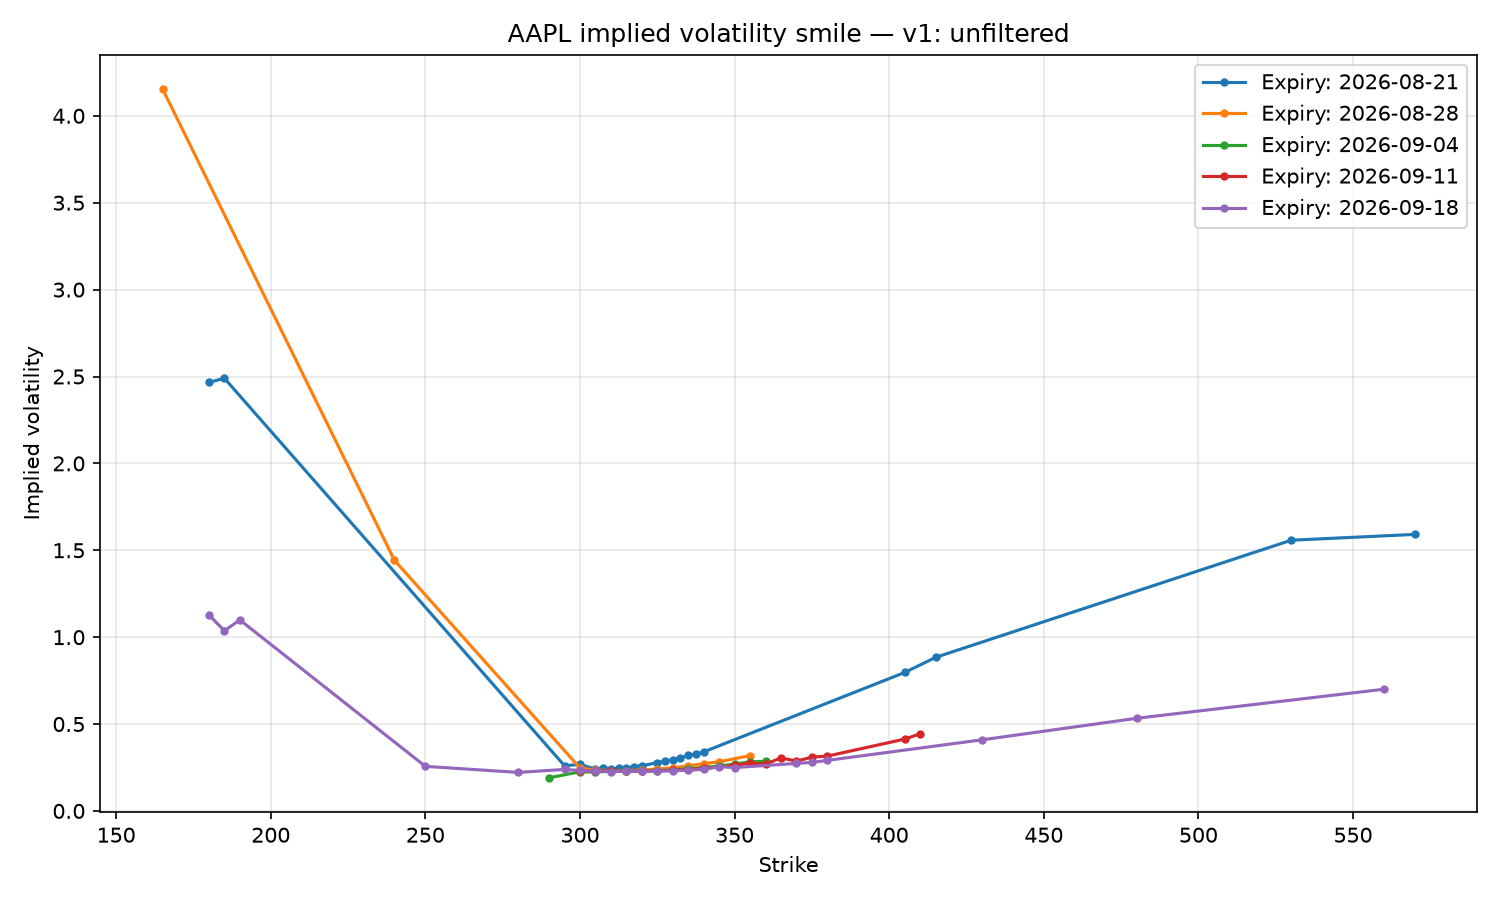
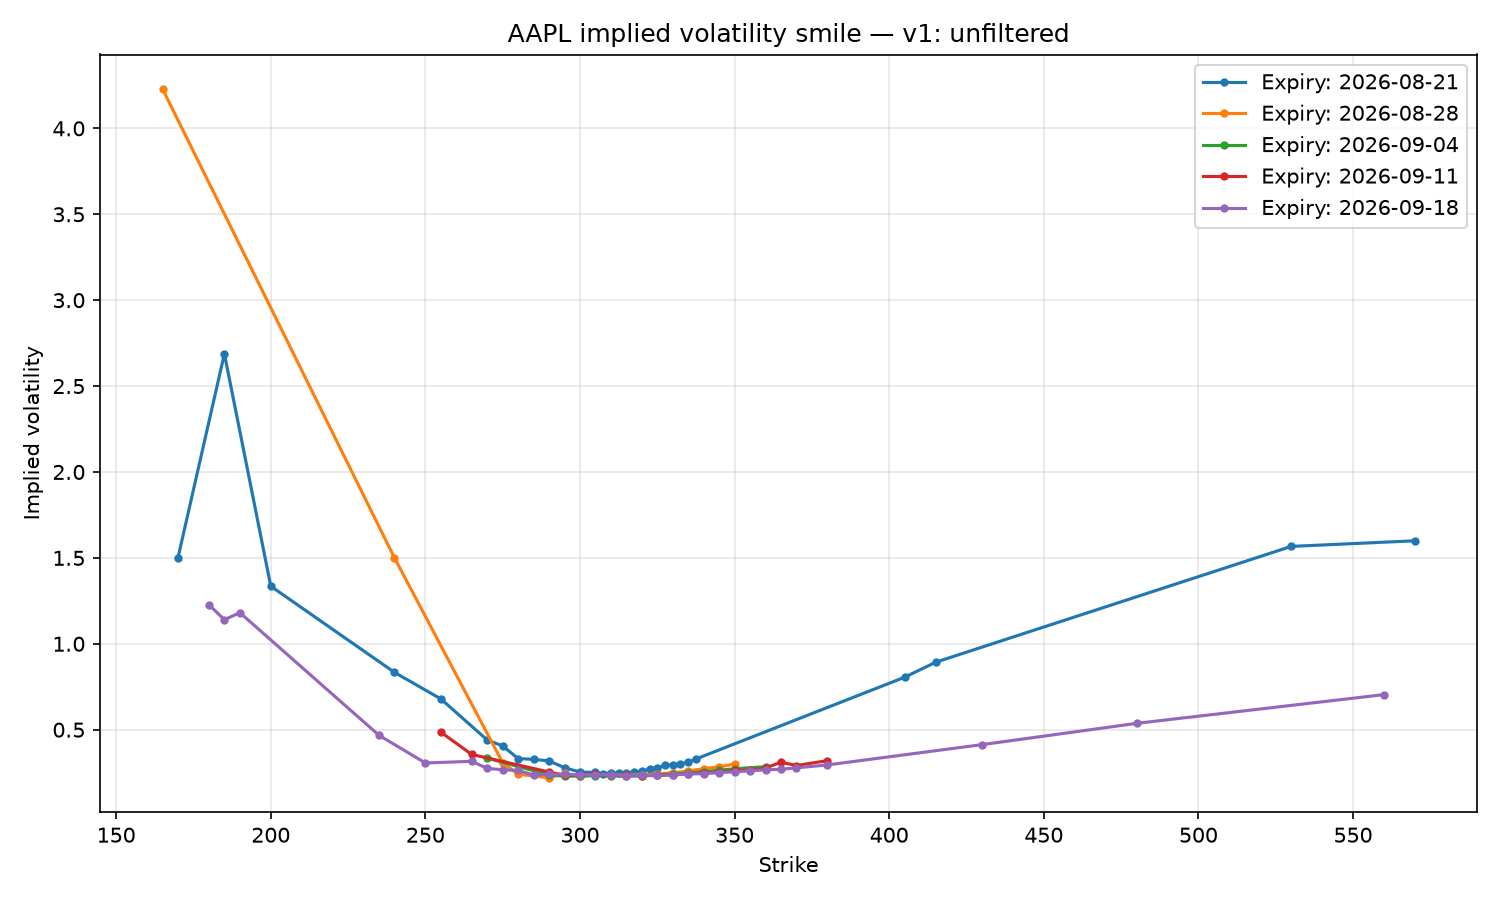
Add SVI calibration per maturity slice with market-vs-model visualization

diff --git a/src/qpt/calibration/svi.py b/src/qpt/calibration/svi.py
@@ -1,0 +1,59 @@
+import numpy as np
+import pandas as pd
+from scipy.optimize import minimize
+from qpt.data.market_data_fetcher import fetch_option_chain
+from qpt.data.cleaning import clean_option_chain
+from qpt.calibration.smile import compute_smile
+
+
+def svi_total_variance(k: np.ndarray, a: float, b: float, rho: float, m: float, sigma: float) -> np.ndarray:
+    return a + b * (rho * (k - m) + np.sqrt((k - m) ** 2 + sigma ** 2))
+
+def calibrate_svi_slice(log_moneyness: np.ndarray, total_variance: np.ndarray) -> dict:
+    def loss(params):
+        a, b, rho, m, sigma = params
+        var_predicted = svi_total_variance(log_moneyness, a, b, rho, m, sigma)
+        sum_squared_error = np.sum((var_predicted - total_variance) ** 2)
+        return sum_squared_error
+    initial_guess = [0.05, 0.1, -0.3, 0.0, 0.1]  # a, b, rho, m, sigma -- reasonable departure point
+    bounds = [(None, None), # a: no strict bound
+        (0.0, None),    # b >= 0
+        (-0.999, 0.999),  # rho between -1 and 1
+        (None, None),   # m: no strict bound
+        (0.001, None),  # sigma > 0
+    ]
+    result = minimize(loss, initial_guess, bounds=bounds)
+    result_dict = { "a": result.x[0], "b": result.x[1],"rho": result.x[2], "m": result.x[3], "sigma": result.x[4]}
+    return result_dict
+
+def calibrate_svi_surface(df_smile: pd.DataFrame) -> dict:
+    surface = {}
+    for expiry, group in df_smile.groupby("expiry"):
+        group_sorted = group.sort_values("strike")
+        spot = group_sorted["spot"].iloc[0]
+        maturity = group_sorted["days_to_expiry"].iloc[0] / 365
+        log_moneyness = np.log(group_sorted["strike"] / spot).values
+        total_variance = (group_sorted["implied_vol"] ** 2 * maturity).values
+        params = calibrate_svi_slice(log_moneyness, total_variance)
+        params["spot"] = spot
+        params["maturity"] = maturity
+        surface[expiry] = params
+    return surface
+
+if __name__ == "__main__":
+    df_raw = fetch_option_chain("AAPL", max_expiries=8)
+    df_clean = clean_option_chain(df_raw)
+    df_smile = compute_smile(df_clean, min_vega=10.0)
+
+    # Take the first expiry for this initial test
+    first_expiry = df_smile["expiry"].unique()[0]
+    slice_df = df_smile[df_smile["expiry"] == first_expiry].sort_values("strike")
+
+    spot = slice_df["spot"].iloc[0]
+    maturity = slice_df["days_to_expiry"].iloc[0] / 365
+
+    log_moneyness = np.log(slice_df["strike"] / spot)
+    total_variance = (slice_df["implied_vol"] ** 2) * maturity
+
+    params = calibrate_svi_slice(log_moneyness.values, total_variance.values)
+    print(f"Calibrated SVI params for {first_expiry}: {params}")

diff --git a/examples/03_volatility_smile.py b/examples/03_volatility_smile.py
@@ -1,7 +1,9 @@
 import matplotlib.pyplot as plt
+import numpy as np
 from qpt.data.market_data_fetcher import fetch_option_chain
 from qpt.data.cleaning import clean_option_chain
 from qpt.calibration.smile import compute_smile
+from qpt.calibration.svi import calibrate_svi_surface, svi_total_variance
 
 TICKER = "AAPL"
 
@@ -46,3 +48,32 @@ plot_smile(df_smile_v3, f"{TICKER} implied volatility smile — v3: vega filtere
 
 print("Implied volatility summary (v3, final):")
 print(df_smile_v3["implied_vol"].describe().round(4))
+
+# calibrate SVI surface + visualize
+surface = calibrate_svi_surface(df_smile_v3)
+
+fig, ax = plt.subplots(figsize=(10, 6))
+
+for expiry, group in df_smile_v3.groupby("expiry"):
+    group_sorted = group.sort_values("strike")
+    spot = group_sorted["spot"].iloc[0]
+    maturity = group_sorted["days_to_expiry"].iloc[0] / 365
+
+    ax.scatter(group_sorted["strike"], group_sorted["implied_vol"], s=15, label=f"{expiry} (market)")
+
+    params = surface[expiry]
+    k_grid = np.linspace(group_sorted["strike"].min(), group_sorted["strike"].max(), 100)
+    log_k_grid = np.log(k_grid / spot)
+    w_grid = svi_total_variance(log_k_grid, params["a"], params["b"], params["rho"], params["m"], params["sigma"])
+    vol_grid = np.sqrt(w_grid / maturity)
+    ax.plot(k_grid, vol_grid, linewidth=1.5)
+
+ax.set_xlabel("Strike")
+ax.set_ylabel("Implied volatility")
+ax.set_title(f"{TICKER} SVI-calibrated volatility smile")
+ax.legend(fontsize=8)
+ax.grid(alpha=0.3)
+plt.tight_layout()
+plt.savefig("assets/smile_aapl_svi_calibrated.png", dpi=150)
+plt.close(fig)
+print("Saved: assets/smile_aapl_svi_calibrated.png")

diff --git a/tests/test_svi.py b/tests/test_svi.py
@@ -1,0 +1,20 @@
+import numpy as np
+from qpt.calibration.svi import svi_total_variance, calibrate_svi_slice
+
+
+def test_svi_calibration_returns_valid_params():
+    # Synthetic smile-like data
+    log_moneyness = np.linspace(-0.3, 0.3, 10)
+    total_variance = 0.04 + 0.1 * log_moneyness**2  # simple symmetric smile shape
+
+    params = calibrate_svi_slice(log_moneyness, total_variance)
+
+    assert params["b"] >= 0
+    assert -1 < params["rho"] < 1
+    assert params["sigma"] > 0
+
+
+def test_svi_total_variance_is_computable():
+    k = np.array([-0.1, 0.0, 0.1])
+    w = svi_total_variance(k, a=0.05, b=0.1, rho=-0.3, m=0.0, sigma=0.1)
+    assert (w > 0).all()
